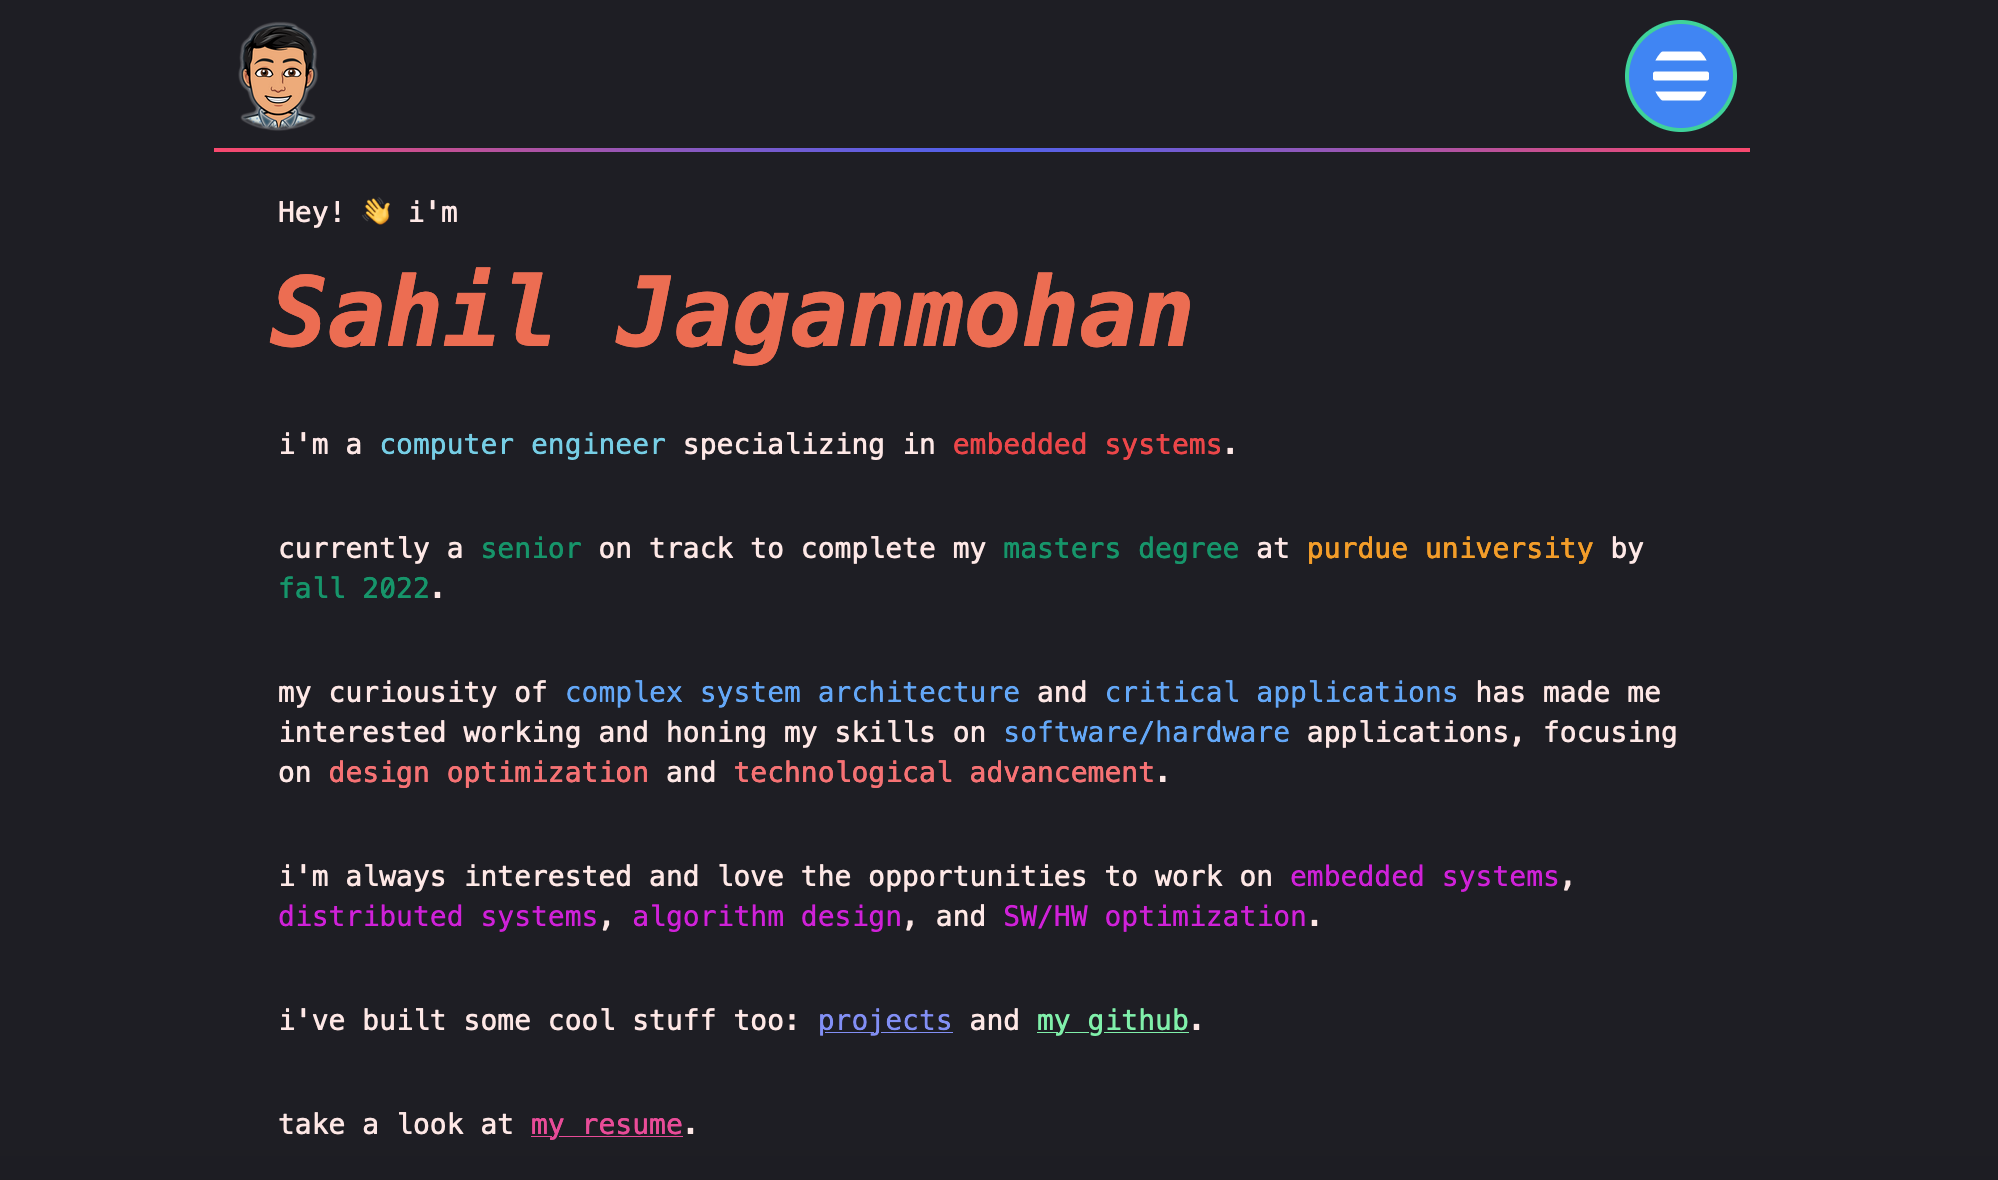
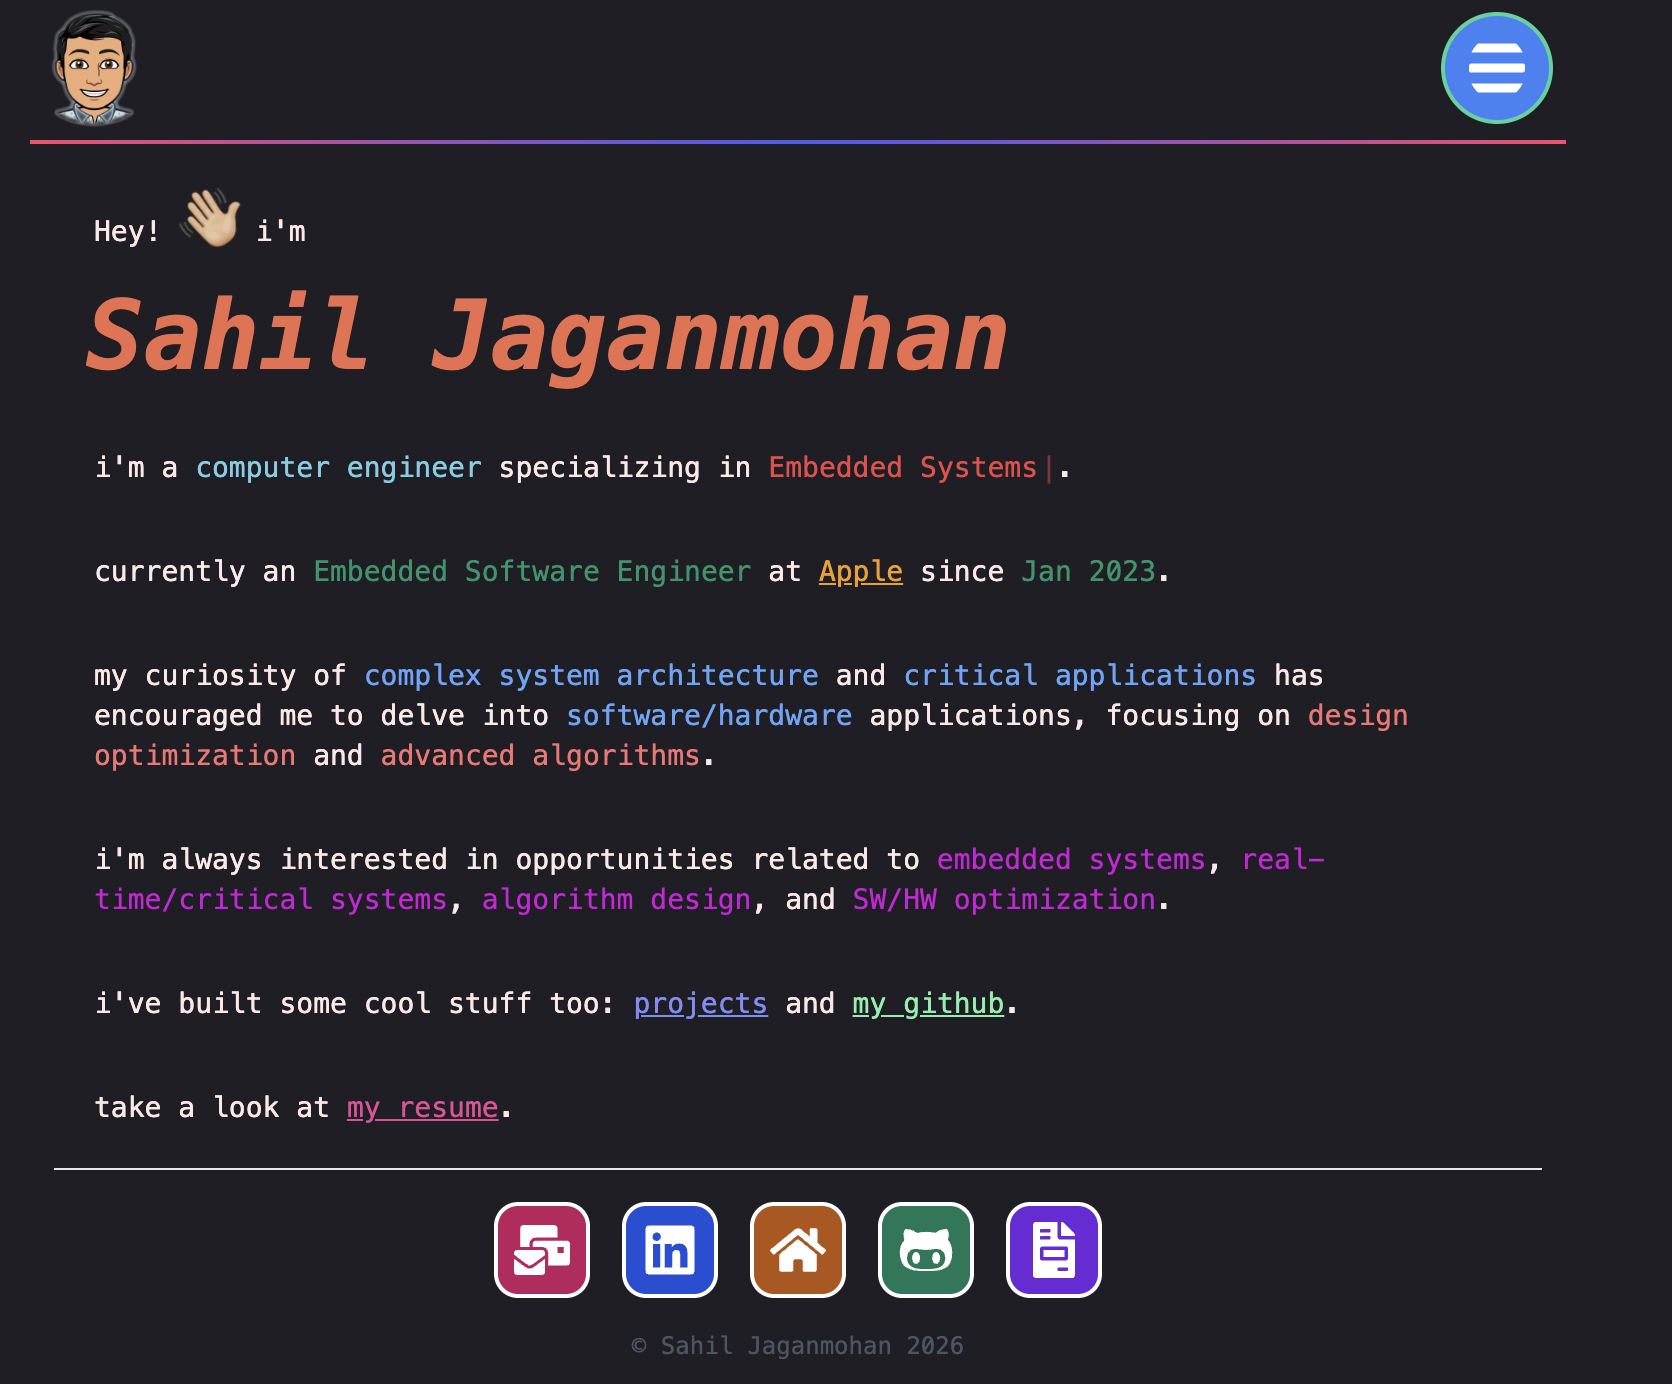
feat: update content on pages
Update landing and about pages to include written content and include proper photos.

ref: ME-16

diff --git a/portfolio/content/things/posts/biology-research/biology-research.md b/portfolio/content/things/posts/biology-research/biology-research.md
@@ -1,13 +1,25 @@
-My early biology research covered environmental sampling, microbial identification, and molecular biology.
+My early biology research covered metagenoics, microbial identification, and molecular biology.
 
-## Metagenomics
+Here are the final presentations that we proposed alongside an short summary of the work that was completed. 
 
-At Rutgers Preparatory School, I worked with metagenomics: genetic material recovered directly from environmental samples. DNA extracted from soil samples was cloned into bacterial artificial chromosome vectors and screened for antimicrobial activity. The work used next-generation sequencing of a region of microbial 16S ribosomal RNA genes to identify and quantify bacteria in campus soil samples.
+## Metagenomics research
+
+#### Summary
+A year long reaserch project that focused on metagenomics and the diversity of microbiomes .
+
+#### What we did
+DNA was extracted from soil samples, cloned into bacterial artificial chromosome vectors and screened for antimicrobial activity. 
+
+Levearged next-generation sequencing (NGS) on a region of microbial 16S ribosomal RNA genes to identify and quantify bacteria in campus soil samples.
+
+Determined the relationship between the sampled microbiomes qualifying how different locations, although nearby, can host extremely unique set of organisims.
 
 ![Metagenomics research poster](images/metagenomics-poster.jpg)
 
 ## Waksman Institute research
 
-With Rutgers University's Waksman Institute, I grew individual bacterial colonies containing engineered plasmids with inserts identifiable by selectable markers. The research also examined the function, process, and impact of proteins in *Landoltia punctata*, and resulted in multiple DNA-sequence submissions to NCBI.
+Prior to the advanced metagenomic reaserch, I started my biology reasearch with the Rutgers University's Waksman Institute. 
+
+I grew individual bacterial colonies inserted with engineered plasmids identifiable by selectable markers. By doing so we examined the function, process, and impact of proteins in *Landoltia punctata*. This resulted in multiple DNA-sequences novel submissions to NCBI national database.
 
 ![Waksman Institute research poster](images/waksman-poster.jpg)

diff --git a/portfolio/content/things/posts/mapreduce-openmp-mpi/mapreduce-openmp-mpi.md b/portfolio/content/things/posts/mapreduce-openmp-mpi/mapreduce-openmp-mpi.md
@@ -1,4 +1,4 @@
-This project implemented MapReduce across several multi-core machines. Its job was to index words from large input text files while distributing the workload across concurrent processes.
+This project implemented MapReduce across several multi-core machines. Its job was to index words from large input text files while distributing the workload across concurrent processes and nodes.
 
 ![MapReduce project diagram](images/mapreduce.png)
 
@@ -8,6 +8,12 @@ The implementation needed to process each word efficiently, merge independent co
 
 ## The approach
 
-The project used C with OpenMP and MPI. OpenMP supported concurrent work within a machine, while MPI coordinated the distributed work across machines.
+Input files are parsed to retrieve word counts across all input files. There are two main steps to process the input: 
+- ***Map*** step to parse input sets and sort into various groups.
+- ***Reduce*** step to perform a summary operation. 
 
-[Project report (PDF)](mapreduce-openmp-mpi.pdf)
+Each process is responsible for either reading/parsing input files, mapping key/word pairs to respective reducer queues, and reducing word pair counts across processes.
+
+The project implements this both locally on one node with OpenMP and in parallel across multiple machines with OpenMPI. 
+
+Performance analysis and isoefficiency analysis was detailed in the [project report (PDF)](mapreduce-openmp-mpi.pdf). We were able understand possible bottlenecks, efficiency of parallelism, and identify areas for future optimizations.

diff --git a/portfolio/content/things/posts/portfolio-1-to-2/portfolio-1-to-2.md b/portfolio/content/things/posts/portfolio-1-to-2/portfolio-1-to-2.md
@@ -1,13 +1,19 @@
-My first portfolio site was a Jekyll static site built in 2018 to share my skills and experience. The next version was a chance to learn React and rebuild the site from scratch.
+## The progression
+
+My first portfolio site was a Jekyll static site built in 2018 to share my skills and experience. 
 
 ![Screenshot of Portfolio 1.0](images/portfolio-1.png)
 
-## The progression
+I chose Jekyll primarily for its simplicity to manage. Since it is a static site generator I could easily deploy the website and have very limited server side costs.
 
-Portfolio 2.0 used React and Gatsby to make a full-stack site with an emphasis on speed, security, and low latency. GraphQL organized and queried the data displayed across the site.
+## Version 2.0
+
+Portfolio 2.0 used React and Gatsby to make a full stack site with an emphasis on speed, security, and low latency. The backend utilized GraphQL to organize and query the data assets that are displayed across the site. 
 
 ![Screenshot of Portfolio 2.0](images/portfolio-2.png)
 
+Moving from a static site generator to a React based website gave me a more direct way to learn the tools behind the site itself. 
+
 ## What I carried forward
 
-The subject stayed the same: make my work and background easy to explore. Moving from a static-site generator to a React-based rebuild gave me a more direct way to learn the tools behind the site itself.
+The goal remained the same which was to make my work and background easy to explore, while keeping server side costs low.

diff --git a/portfolio/content/experience/apple.md b/portfolio/content/experience/apple.md
@@ -1,4 +1,5 @@
-- Built an embedded application that **dynamically predicts latencies** of critical hardware IP blocks in real time, detecting bandwidth starvation, surges, and idling for key workflows.
-- Improved caching by `15%` for key end-user use cases and eased bandwidth bottlenecks by `20%` through software prefetching and hardware design changes.
-- Designed a **live on-device dashboard** for concurrent performance metrics across hardware IPs and replay capabilities for SoC debugging.
-- Led hardware bring-up for multiple IP blocks across SoCs and accelerated a custom data engineering platform, improving visualization speed by `500%` and memory use by up to `4000%`.
+- Built an embedded application that **dynamically predicts latencies** of critical hardware IP blocks in real time, detecting **bandwidth starvation**, surges, and idling **for key workflows**.
+- Resulted in a `15%` **caching improvement** for key end-user use-cases. Eased various bandwidth bottlenecks by `20%` through **software pre-fetching algorithms** and proposed HW design changes.
+- Designed a **live on-device dashboard** for concurrent performance metrics across hardware IPs.
+- Accelerated a **custom data engineering platform**, improving visualization speed by `500%` and memory use by up to `4000%` compared to Apache Spark leveraging **distributed caching schemes and parallel data processing**.
+- Led hardware bring-up for multiple IP blocks across SoCs as the **primary SME**.

diff --git a/portfolio/content/things/posts/purdue-projects/purdue-projects.md b/portfolio/content/things/posts/purdue-projects/purdue-projects.md
@@ -1,4 +1,4 @@
-These projects moved between hardware design, embedded firmware, and data analysis.
+These are all the key projects that I worked on during my time at Purdue. Highlighting my experience and interest in hardware design, embedded firmware, and data analysis.
 
 ## USB full-speed bulk-transfer module
 
@@ -14,8 +14,10 @@ I built 2048 for an STM32 microcontroller using the ARM v6-M architecture. The g
 
 ## MOOCs performance analysis
 
-For a MOOCs performance-prediction project, the goal was to predict whether a user would be correct on their first attempt at a question. A Gaussian-mixture clustering model was developed to predict average and individual quiz performance.
+Working with the MOOCs data set, the goal was to predict whether a user would be correct on their first attempt at a question. 
 
-![MOOCs performance analysis visualization](images/moocs.jpg)
+A Gaussian-mixture clustering model (GMM) was developed and utilized to predict average and individual quiz performance.
+
+![MOOCs performance analysis visualization](images/data_graph.png)
 
 [MOOCs performance analysis report (PDF)](moocs-performance-analysis.pdf)

diff --git a/portfolio/content/about/about.md b/portfolio/content/about/about.md
@@ -3,7 +3,7 @@ I was born and raised in New Jersey, and it's one of my favorite places I call h
 
 Ever since I was young, I've loved to play and watch Soccer! Forza Juve! Also, heavily interested in Football and Basketball too!
 
-I have completed my undergraduate and masters degree at Purdue in 4.5 years. Over that time Purdue has become a second home for me! The diverse groups of people and the vast amount of knowledge the place has to offer made the entire experience amazing!!
+I completed my undergraduate and masters degree at Purdue in 4.5 years. Over that time Purdue has become a second home for me! The diverse groups of people and the vast amount of knowledge the place had to offer made the entire experience amazing!!
 
 Professionally, I had always had my eyes set on providing a direct impact on critical medical systems. Computer Engineering opens plenty of opportunities to work on the software and hardware aspects of such systems. In the future, I hope to work on developing products ranging from implantable to surgical devices.
 

diff --git a/portfolio/content/landing/landing.md b/portfolio/content/landing/landing.md
@@ -1,3 +1,5 @@
-I build efficient systems across hardware and software, from custom accelerators and embedded platforms to the software that brings them to life.
+I build end-to-end systems across the hardware and software stack. 
 
-My work centers on hardware + software co-design: understanding the full system, finding the constraints that matter, and making thoughtful tradeoffs to improve performance, reliability, and usability.
+My experience spans embedded platforms, optimizing consumer devices, and server grade silicon co-design.  
+
+I align application workloads and software patterns with computer architecture to deliver **scalable hardware accelerators**.
